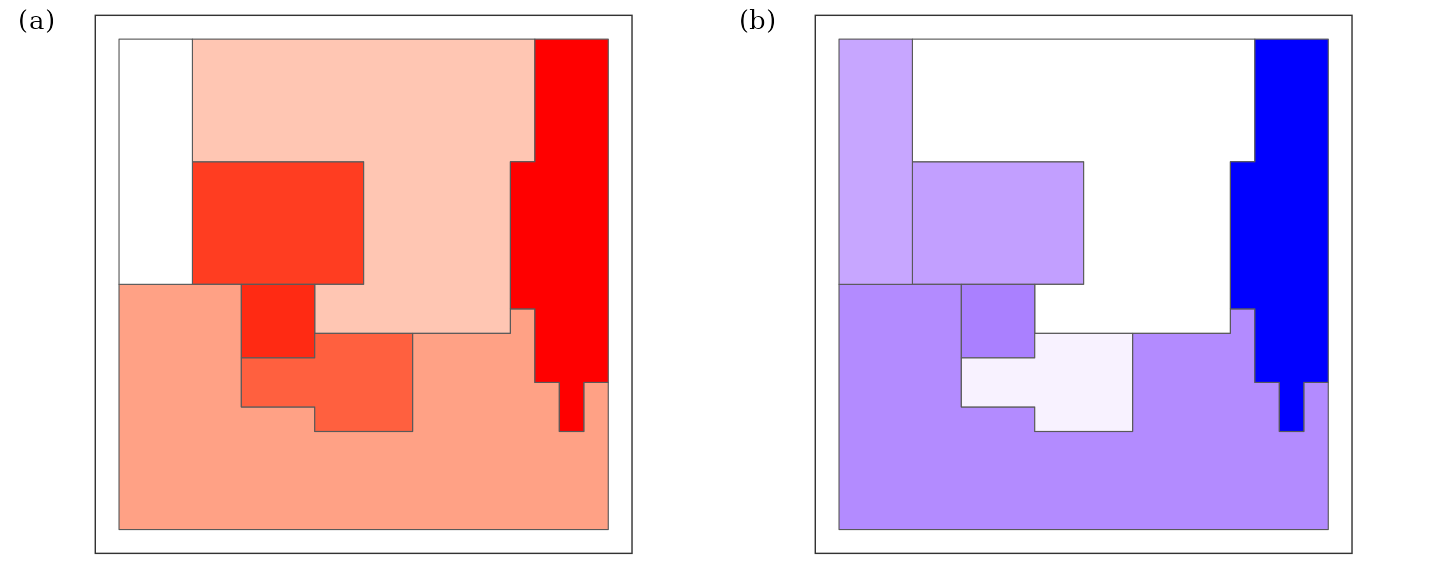
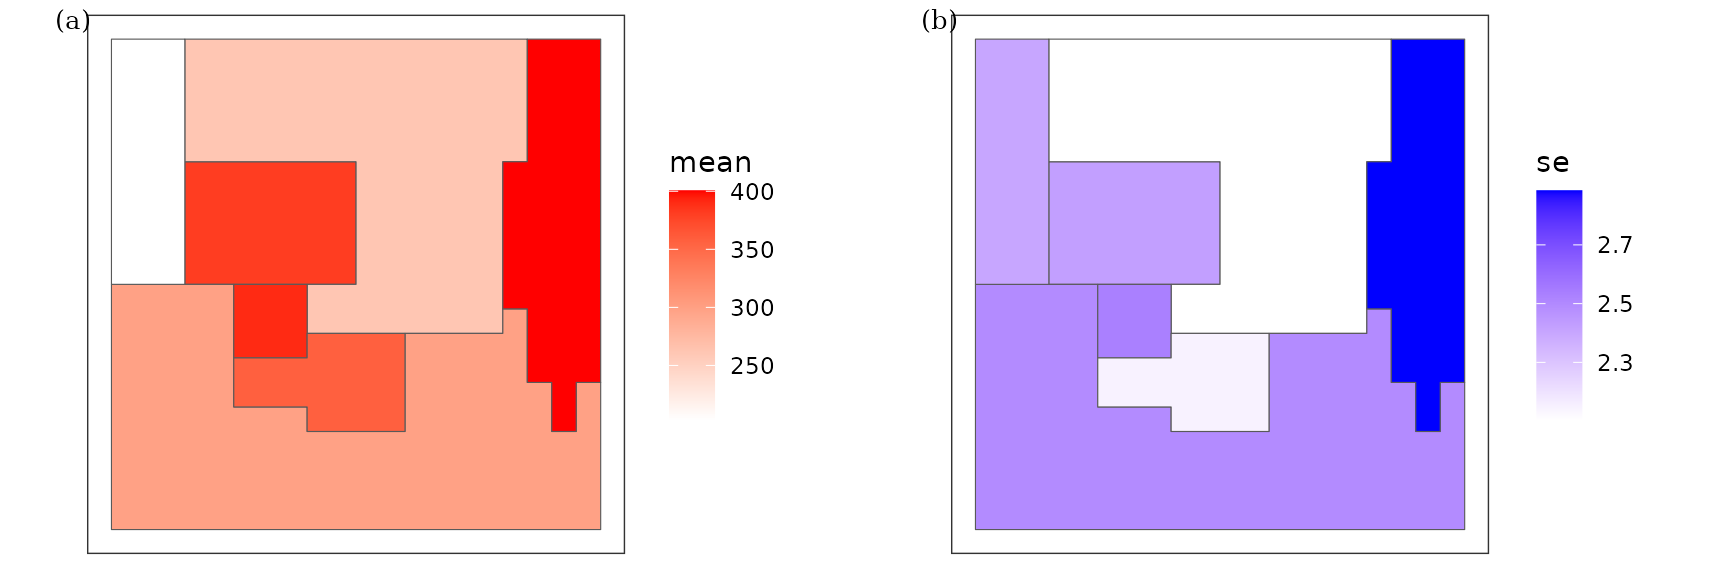
Deploying to gh-pages from @ SpatLyu/spEcula@128617e3ce4918ff330464000cae5139623c03d1 🚀

diff --git a/articles/sandwich.html b/articles/sandwich.html
@@ -131,10 +131,7 @@ stratum<a class="anchor" aria-label="anchor" href="#visualize-the-mean-and-stand
 <span></span>
 <span><span class="fu"><a href="https://rpkgs.datanovia.com/ggpubr/reference/ggerrorplot.html" class="external-link">ggerrorplot</a></span><span class="op">(</span><span class="va">sampling_zone</span>, x <span class="op">=</span> <span class="st">"X"</span>, y <span class="op">=</span> <span class="st">"Value"</span>, xlab <span class="op">=</span> <span class="va">LETTERS</span><span class="op">[</span><span class="fl">1</span><span class="op">:</span><span class="fl">4</span><span class="op">]</span>,</span>
 <span>            desc_stat <span class="op">=</span> <span class="st">"mean_sd"</span>, color <span class="op">=</span> <span class="st">"black"</span>,</span>
-<span>            add <span class="op">=</span> <span class="st">"violin"</span>, add.params <span class="op">=</span> <span class="fu"><a href="https://rdrr.io/r/base/list.html" class="external-link">list</a></span><span class="op">(</span>color <span class="op">=</span> <span class="st">"darkgray"</span><span class="op">)</span><span class="op">)</span> <span class="op">+</span> </span>
-<span>  <span class="fu"><a href="https://ggplot2.tidyverse.org/reference/geom_text.html" class="external-link">geom_text</a></span><span class="op">(</span>data <span class="op">=</span> <span class="fu"><a href="https://dplyr.tidyverse.org/reference/summarise.html" class="external-link">summarise</a></span><span class="op">(</span><span class="va">sampling_zone</span>,vmean <span class="op">=</span> <span class="fu"><a href="https://rdrr.io/r/base/mean.html" class="external-link">mean</a></span><span class="op">(</span><span class="va">Value</span><span class="op">)</span>,.by <span class="op">=</span> <span class="va">X</span><span class="op">)</span>, </span>
-<span>            <span class="fu"><a href="https://ggplot2.tidyverse.org/reference/aes.html" class="external-link">aes</a></span><span class="op">(</span>x <span class="op">=</span> <span class="va">X</span>, y <span class="op">=</span> <span class="va">vmean</span>, label <span class="op">=</span> <span class="va">vmean</span><span class="op">)</span>, </span>
-<span>            vjust <span class="op">=</span> <span class="op">-</span><span class="fl">0.75</span>, color <span class="op">=</span> <span class="st">"black"</span><span class="op">)</span> <span class="op">+</span></span>
+<span>            add <span class="op">=</span> <span class="st">"violin"</span>, add.params <span class="op">=</span> <span class="fu"><a href="https://rdrr.io/r/base/list.html" class="external-link">list</a></span><span class="op">(</span>color <span class="op">=</span> <span class="st">"darkgray"</span><span class="op">)</span><span class="op">)</span> <span class="op">+</span></span>
 <span>  <span class="fu"><a href="https://ggplot2.tidyverse.org/reference/theme.html" class="external-link">theme</a></span><span class="op">(</span>axis.title.x <span class="op">=</span> <span class="fu"><a href="https://ggplot2.tidyverse.org/reference/element.html" class="external-link">element_blank</a></span><span class="op">(</span><span class="op">)</span><span class="op">)</span></span>
 <span><span class="co">## NULL</span></span></code></pre></div>
 </div>
@@ -178,7 +175,7 @@ Sandwich mapping model for each of the seven reporting units.</p>
 <span>    axis.ticks <span class="op">=</span> <span class="fu"><a href="https://ggplot2.tidyverse.org/reference/element.html" class="external-link">element_blank</a></span><span class="op">(</span><span class="op">)</span>,</span>
 <span>    axis.title <span class="op">=</span> <span class="fu"><a href="https://ggplot2.tidyverse.org/reference/element.html" class="external-link">element_blank</a></span><span class="op">(</span><span class="op">)</span>,</span>
 <span>    panel.grid <span class="op">=</span> <span class="fu"><a href="https://ggplot2.tidyverse.org/reference/element.html" class="external-link">element_blank</a></span><span class="op">(</span><span class="op">)</span>,</span>
-<span>    legend.position <span class="op">=</span> <span class="st">'outside'</span>,</span>
+<span>    legend.position <span class="op">=</span> <span class="st">'right'</span>,</span>
 <span>    legend.background <span class="op">=</span> <span class="fu"><a href="https://ggplot2.tidyverse.org/reference/element.html" class="external-link">element_rect</a></span><span class="op">(</span>fill <span class="op">=</span> <span class="st">'transparent'</span>,color <span class="op">=</span> <span class="cn">NA</span><span class="op">)</span></span>
 <span>  <span class="op">)</span></span>
 <span></span>
@@ -193,16 +190,16 @@ Sandwich mapping model for each of the seven reporting units.</p>
 <span>    axis.ticks <span class="op">=</span> <span class="fu"><a href="https://ggplot2.tidyverse.org/reference/element.html" class="external-link">element_blank</a></span><span class="op">(</span><span class="op">)</span>,</span>
 <span>    axis.title <span class="op">=</span> <span class="fu"><a href="https://ggplot2.tidyverse.org/reference/element.html" class="external-link">element_blank</a></span><span class="op">(</span><span class="op">)</span>,</span>
 <span>    panel.grid <span class="op">=</span> <span class="fu"><a href="https://ggplot2.tidyverse.org/reference/element.html" class="external-link">element_blank</a></span><span class="op">(</span><span class="op">)</span>,</span>
-<span>    legend.position <span class="op">=</span> <span class="st">'outside'</span>,</span>
+<span>    legend.position <span class="op">=</span> <span class="st">'right'</span>,</span>
 <span>    legend.background <span class="op">=</span> <span class="fu"><a href="https://ggplot2.tidyverse.org/reference/element.html" class="external-link">element_rect</a></span><span class="op">(</span>fill <span class="op">=</span> <span class="st">'transparent'</span>,color <span class="op">=</span> <span class="cn">NA</span><span class="op">)</span></span>
 <span>  <span class="op">)</span></span>
 <span></span>
 <span><span class="fu"><a href="https://wilkelab.org/cowplot/reference/plot_grid.html" class="external-link">plot_grid</a></span><span class="op">(</span><span class="va">f1</span>, <span class="va">f2</span>, nrow <span class="op">=</span> <span class="fl">1</span>,label_fontfamily <span class="op">=</span> <span class="st">'serif'</span>,</span>
 <span>          labels <span class="op">=</span> <span class="fu"><a href="https://rdrr.io/r/base/paste.html" class="external-link">paste0</a></span><span class="op">(</span><span class="st">'('</span>,<span class="va">letters</span><span class="op">[</span><span class="fl">1</span><span class="op">:</span><span class="fl">4</span><span class="op">]</span>,<span class="st">')'</span><span class="op">)</span>,</span>
 <span>          label_fontface <span class="op">=</span> <span class="st">'plain'</span>,label_size <span class="op">=</span> <span class="fl">10</span>,</span>
-<span>          align <span class="op">=</span> <span class="st">'hv'</span><span class="op">)</span>  <span class="op">-&gt;</span> <span class="va">p</span></span>
+<span>          hjust <span class="op">=</span> <span class="op">-</span><span class="fl">1.5</span>,align <span class="op">=</span> <span class="st">'hv'</span><span class="op">)</span>  <span class="op">-&gt;</span> <span class="va">p</span></span>
 <span><span class="va">p</span></span></code></pre></div>
-<p><img src="sandwich_files/figure-html/sandwich_sim_est-1.png" width="720"></p>
+<p><img src="sandwich_files/figure-html/sandwich_sim_est-1.png" width="864"></p>
 <div class="section level4">
 <h4 id="run-sandwich-model-for-the-sim-data-use-population-weight">Run sandwich model for the sim data use <code>population</code>
 weight<a class="anchor" aria-label="anchor" href="#run-sandwich-model-for-the-sim-data-use-population-weight"></a>
